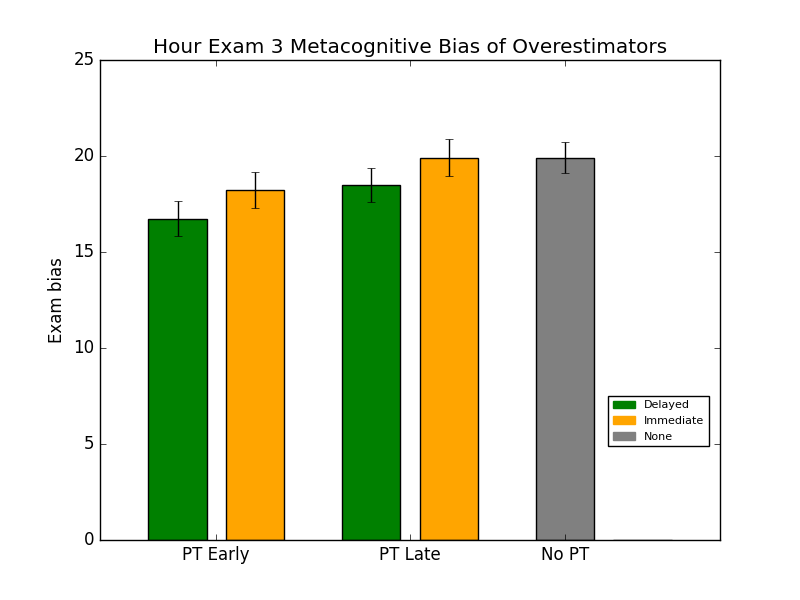
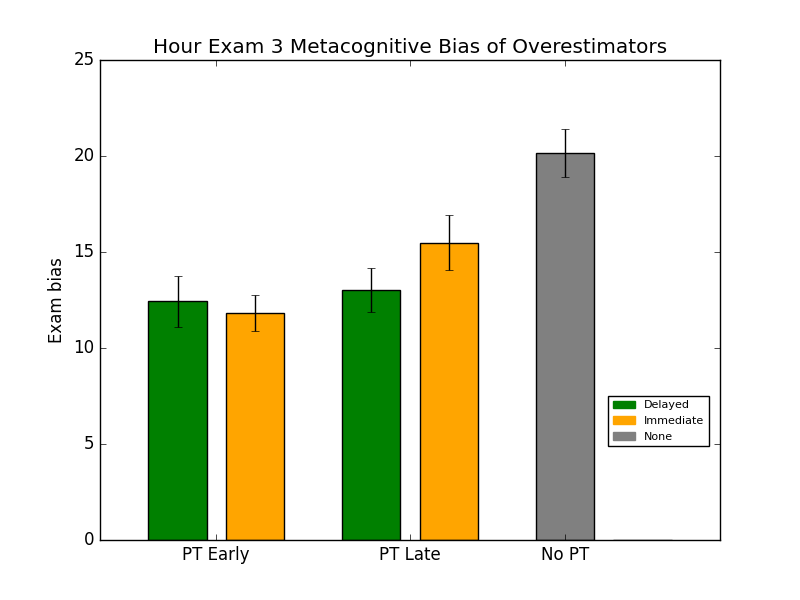
Fixed small error in bias graphs

Changed region(s): [[0.1562, 0.3, 0.375, 0.54], [0.4062, 0.24, 0.625, 0.51], [0.6562, 0.21, 0.75, 0.27]]

diff --git a/source/bias.py b/source/bias.py
@@ -31,24 +31,26 @@ def parse_file(): # Dividing the Data into appropriate bins
 			if row[8] == "NULL":
 				if float(row[3]) > 100: # This is for typos with extra zeros
 						row[3] = 100
-
-				no_feedback_bias.append(float(row[1]) - float(row[3]))
+				if float(row[1]) - float(row[3]) < 0:
+					no_feedback_bias.append(abs(float(row[1]) - float(row[3])))
 			elif float(row[8]) <= early_time:
 				if float(row[3]) > 100: # This is for typos with extra zeros
 						row[3] = 100
 
-				if int(row[5]) == 1:
-					delayed_feedback_early_bias.append(float(row[1]) - float(row[3]))
-				else:
-					immediate_feeback_early_bias.append(float(row[1]) - float(row[3]))
+				if float(row[1]) - float(row[3]) < 0:
+					if int(row[5]) == 1:
+						delayed_feedback_early_bias.append(abs(float(row[1]) - float(row[3])))
+					else:
+						immediate_feeback_early_bias.append(abs(float(row[1]) - float(row[3])))
 			elif float(row[8]) < 0: # Sometimes students finish practice after exam time?
 				if float(row[3]) > 100: # This is for typos with extra zeros
 						row[3] = 100
 
-				if int(row[5]) == 1:
-					delayed_feedback_late_bias.append(float(row[1]) - float(row[3]))
-				else:
-					immediate_feeback_late_bias.append(float(row[1]) - float(row[3]))
+				if float(row[1]) - float(row[3]) < 0:
+					if int(row[5]) == 1:
+						delayed_feedback_late_bias.append(abs(float(row[1]) - float(row[3])))
+					else:
+						immediate_feeback_late_bias.append(abs(float(row[1]) - float(row[3])))
 
 def draw_graph(name): # Drawing Hour Exam 2 Score by Feedback
 	# Calculating the Means
@@ -60,6 +62,10 @@ def draw_graph(name): # Drawing Hour Exam 2 Score by Feedback
 	delayed_errors = [stats.sem(delayed_feedback_early_bias), stats.sem(delayed_feedback_late_bias)]
 	immediate_errors = [stats.sem(immediate_feeback_early_bias), stats.sem(immediate_feeback_late_bias)]
 	no_errors = [stats.sem(no_feedback_bias)]
+
+	print(delayed_means)
+	print()
+	print(immediate_means)
 
 	# Drawing the Bars
 	plt.style.use('classic')
@@ -80,14 +86,21 @@ def draw_graph(name): # Drawing Hour Exam 2 Score by Feedback
 	gray_patch = mpatches.Patch(color='gray', label='None')
 	plt.legend(bbox_to_anchor=(0.82, 0.3), loc='upper left', borderaxespad=0, handles=[green_patch, orange_patch, gray_patch], prop={"size":8})
 
-	# plt.savefig("../graphs/" + name + ".png")
+	plt.savefig("../graphs/" + name + ".png")
 	plt.show()
+
+def clear_lists():
+	delayed_feedback_early_bias.clear()
+	delayed_feedback_late_bias.clear()
+	immediate_feeback_early_bias.clear()
+	immediate_feeback_late_bias.clear()
+	no_feedback_bias.clear()
 
 r_list = store_file_data(exam2_path)
 parse_file()
-draw_graph("Hour Exam 2 Metacognitive Bias of Underestimators")
-alterlist()
+draw_graph("aHour Exam 2 Metacognitive Bias of Underestimators")
+clear_lists()
 
 r_list = store_file_data(exam3_path)
 parse_file()
-draw_graph("Hour Exam 3 Metacognitive Bias of Underestimators")
+draw_graph("Hour Exam 3 Metacognitive Bias of Overestimators")

diff --git a/source/examscore.py b/source/examscore.py
@@ -46,7 +46,9 @@ def draw_graph(name): # Drawing Hour Exam 2 Score by Feedback
 	delayed_means = [np.mean(delayed_feedback_early_score), np.mean(delayed_feedback_late_score)]
 	immediate_means = [np.mean(immediate_feeback_early_score), np.mean(immediate_feeback_late_score)]
 	no_means = [np.mean(no_feedback_score)]
-
+	print(delayed_means)
+	print()
+	print(immediate_means)
 	# Calculating the Error Bars
 	delayed_errors = [stats.sem(delayed_feedback_early_score), stats.sem(delayed_feedback_late_score)]
 	immediate_errors = [stats.sem(immediate_feeback_early_score), stats.sem(immediate_feeback_late_score)]
@@ -74,9 +76,17 @@ def draw_graph(name): # Drawing Hour Exam 2 Score by Feedback
 	plt.savefig("../graphs/" + name + ".png")
 	plt.show()
 
+def clear_lists():
+	delayed_feedback_early_score.clear()
+	delayed_feedback_late_score.clear()
+	no_feedback_score.clear()
+	immediate_feeback_early_score.clear()
+	immediate_feeback_late_score.clear()
+
 r_list = store_file_data(exam2_path)
 parse_file()
 draw_graph("Hour Exam 2 Score by Feedback")
+clear_lists()
 
 r_list = store_file_data(exam3_path)
 parse_file()
